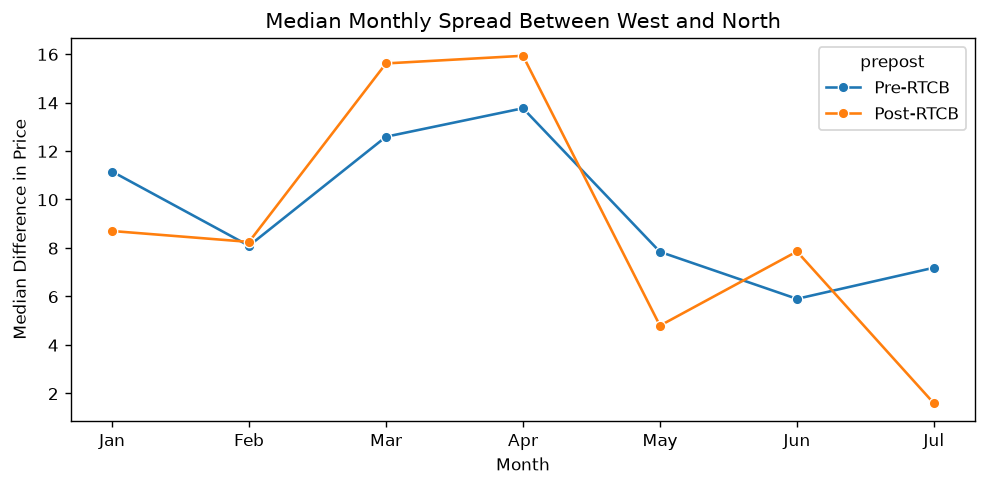
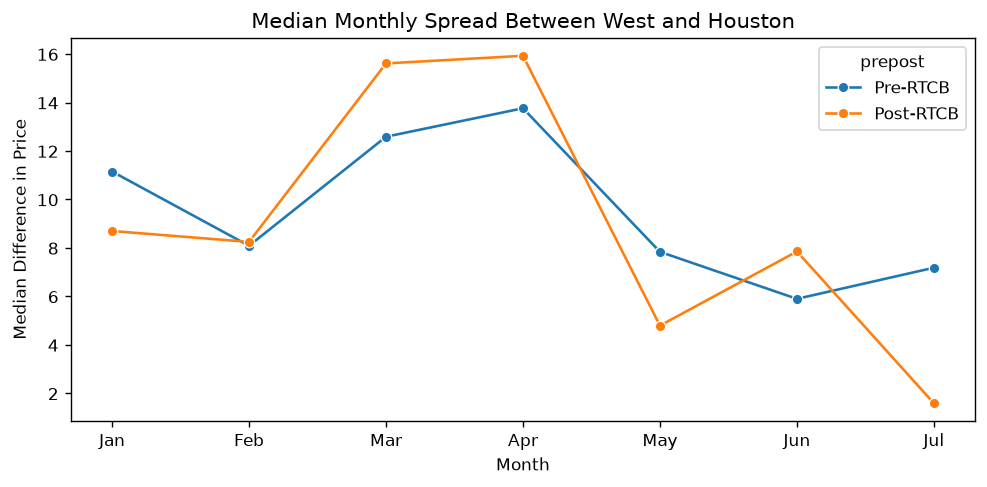
Update ERCOT anaylsis text

Changed region(s): [[0.2432, 0.0308, 0.8207, 0.0616]]

diff --git a/_site/projects/ercot_analysis.html b/_site/projects/ercot_analysis.html
@@ -172,7 +172,7 @@ ul.task-list li input[type="checkbox"] {
 </div>
 </div>
 </div>
-<div id="8eee979d" class="cell" data-execution_count="26">
+<div id="8eee979d" class="cell" data-execution_count="33">
 <div class="cell-output cell-output-display">
 <div>
 <figure class="figure">
